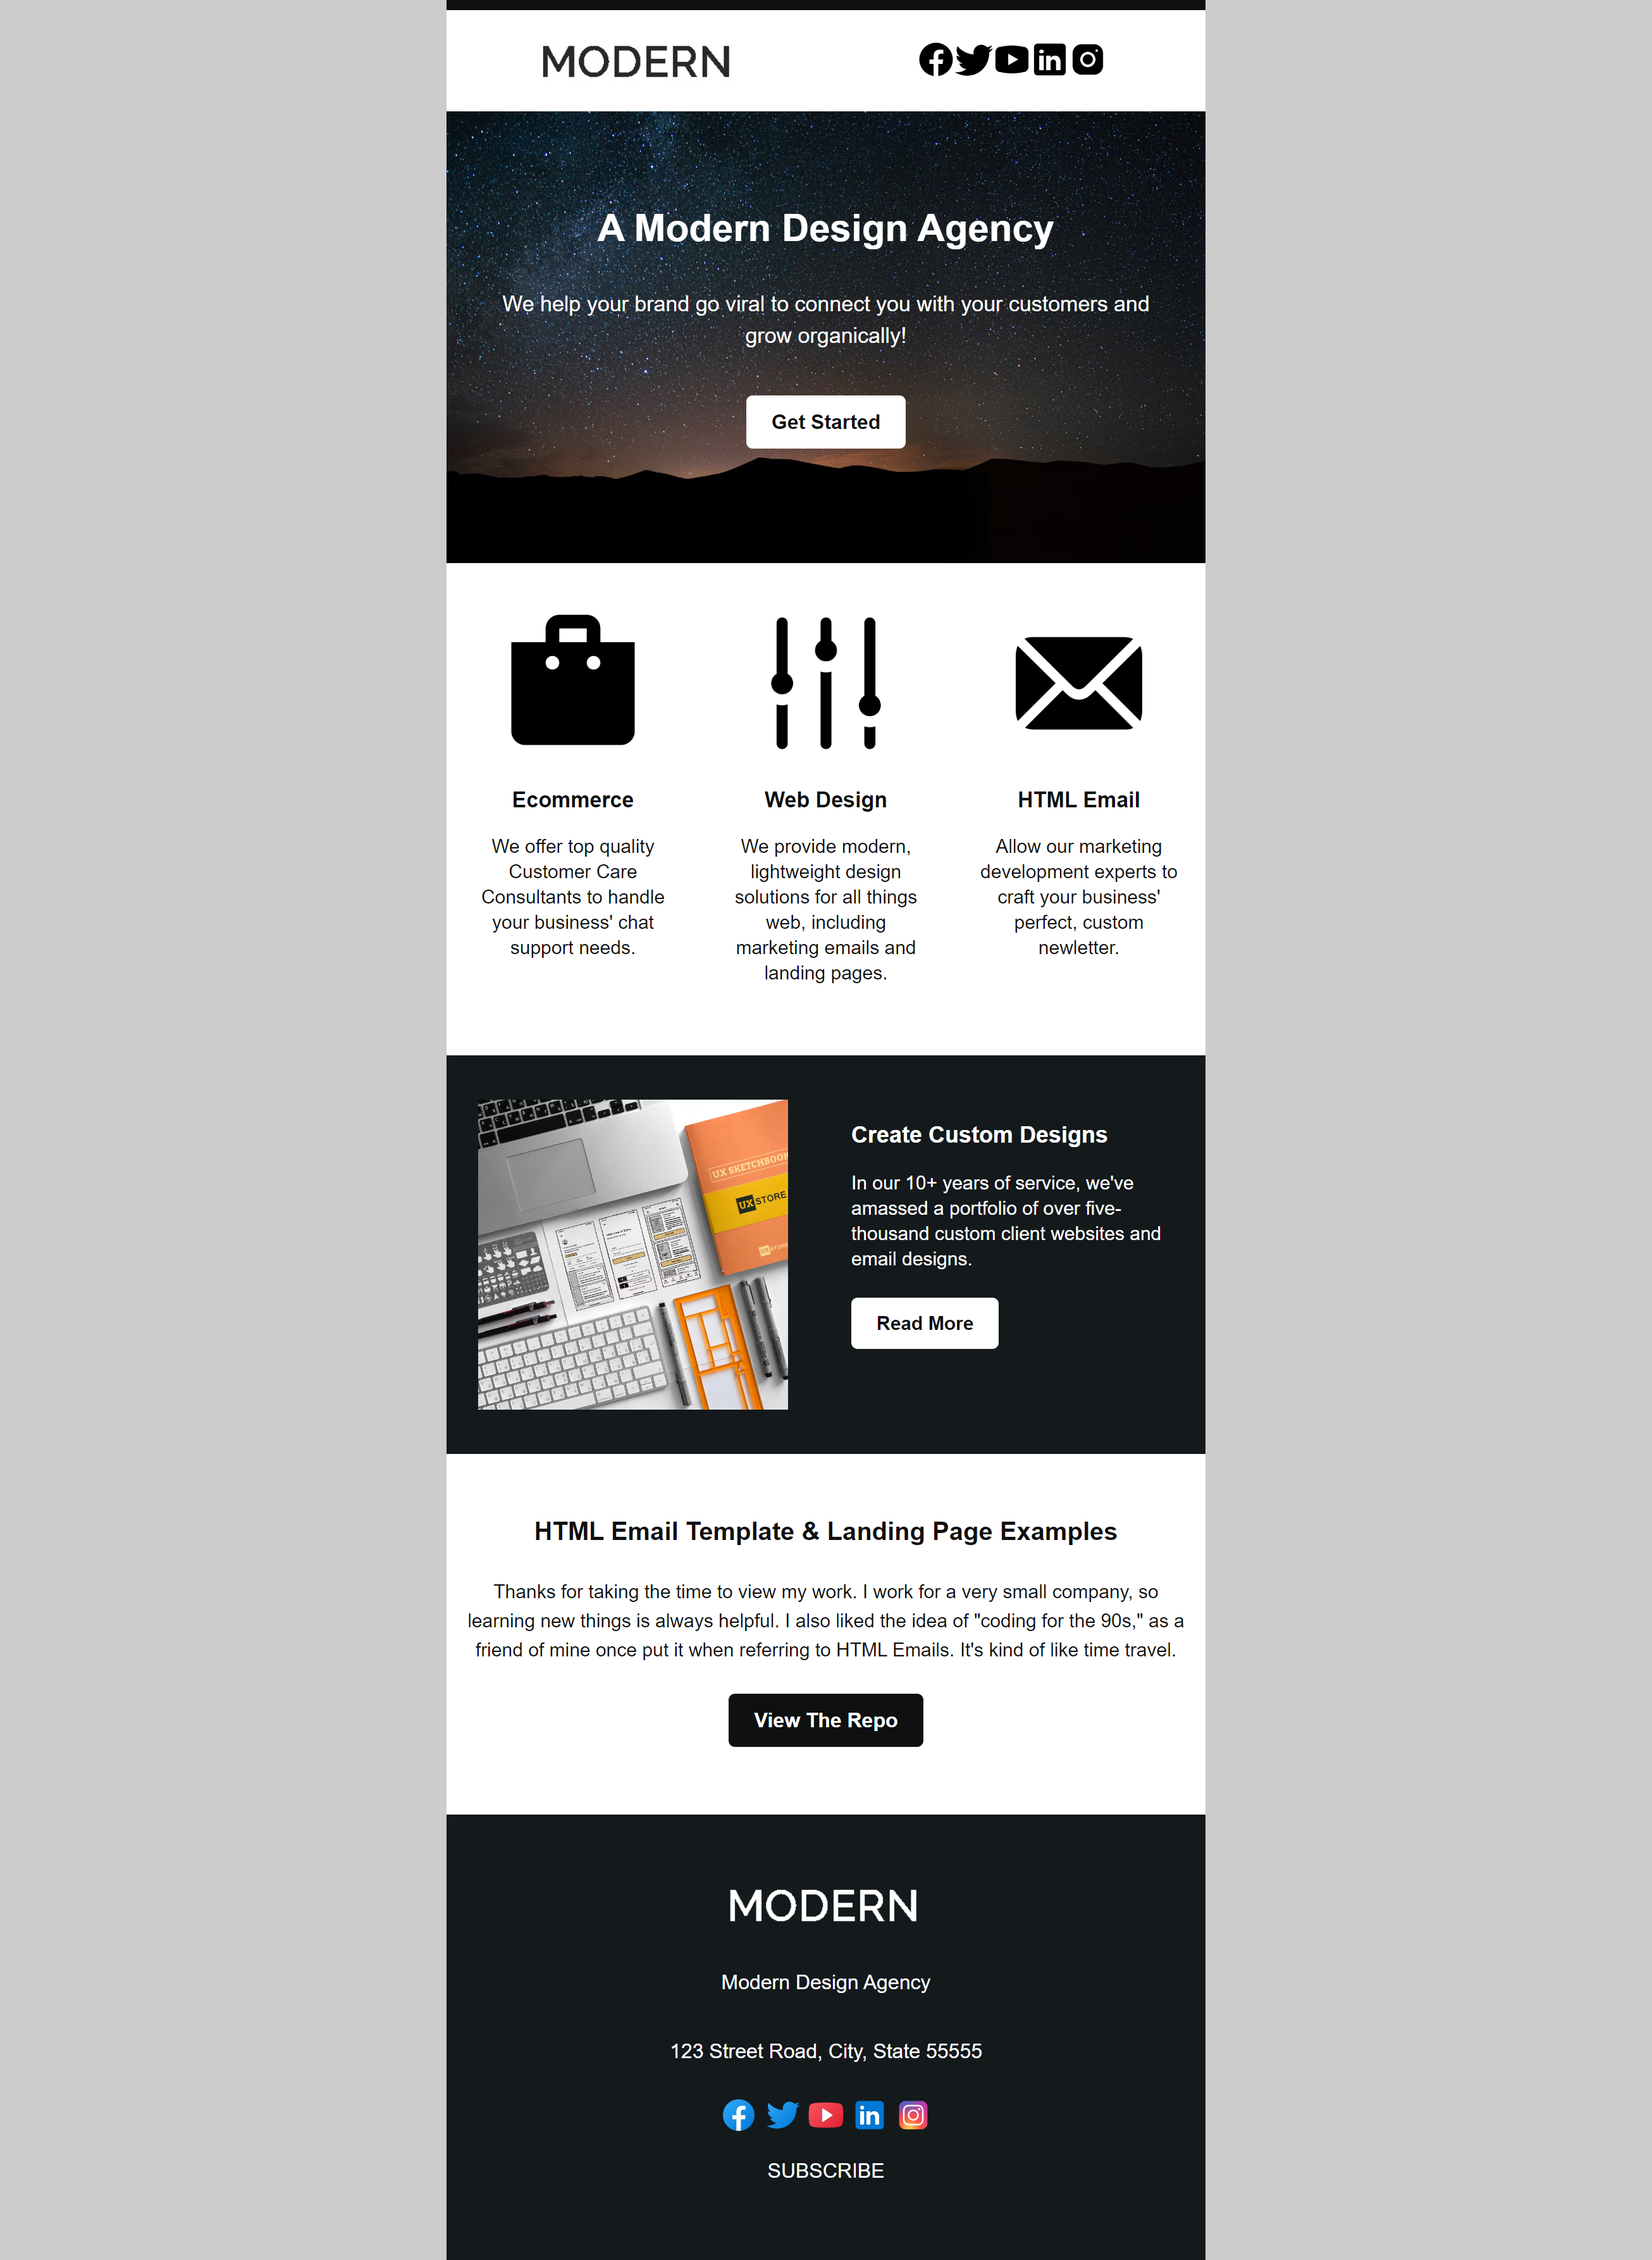
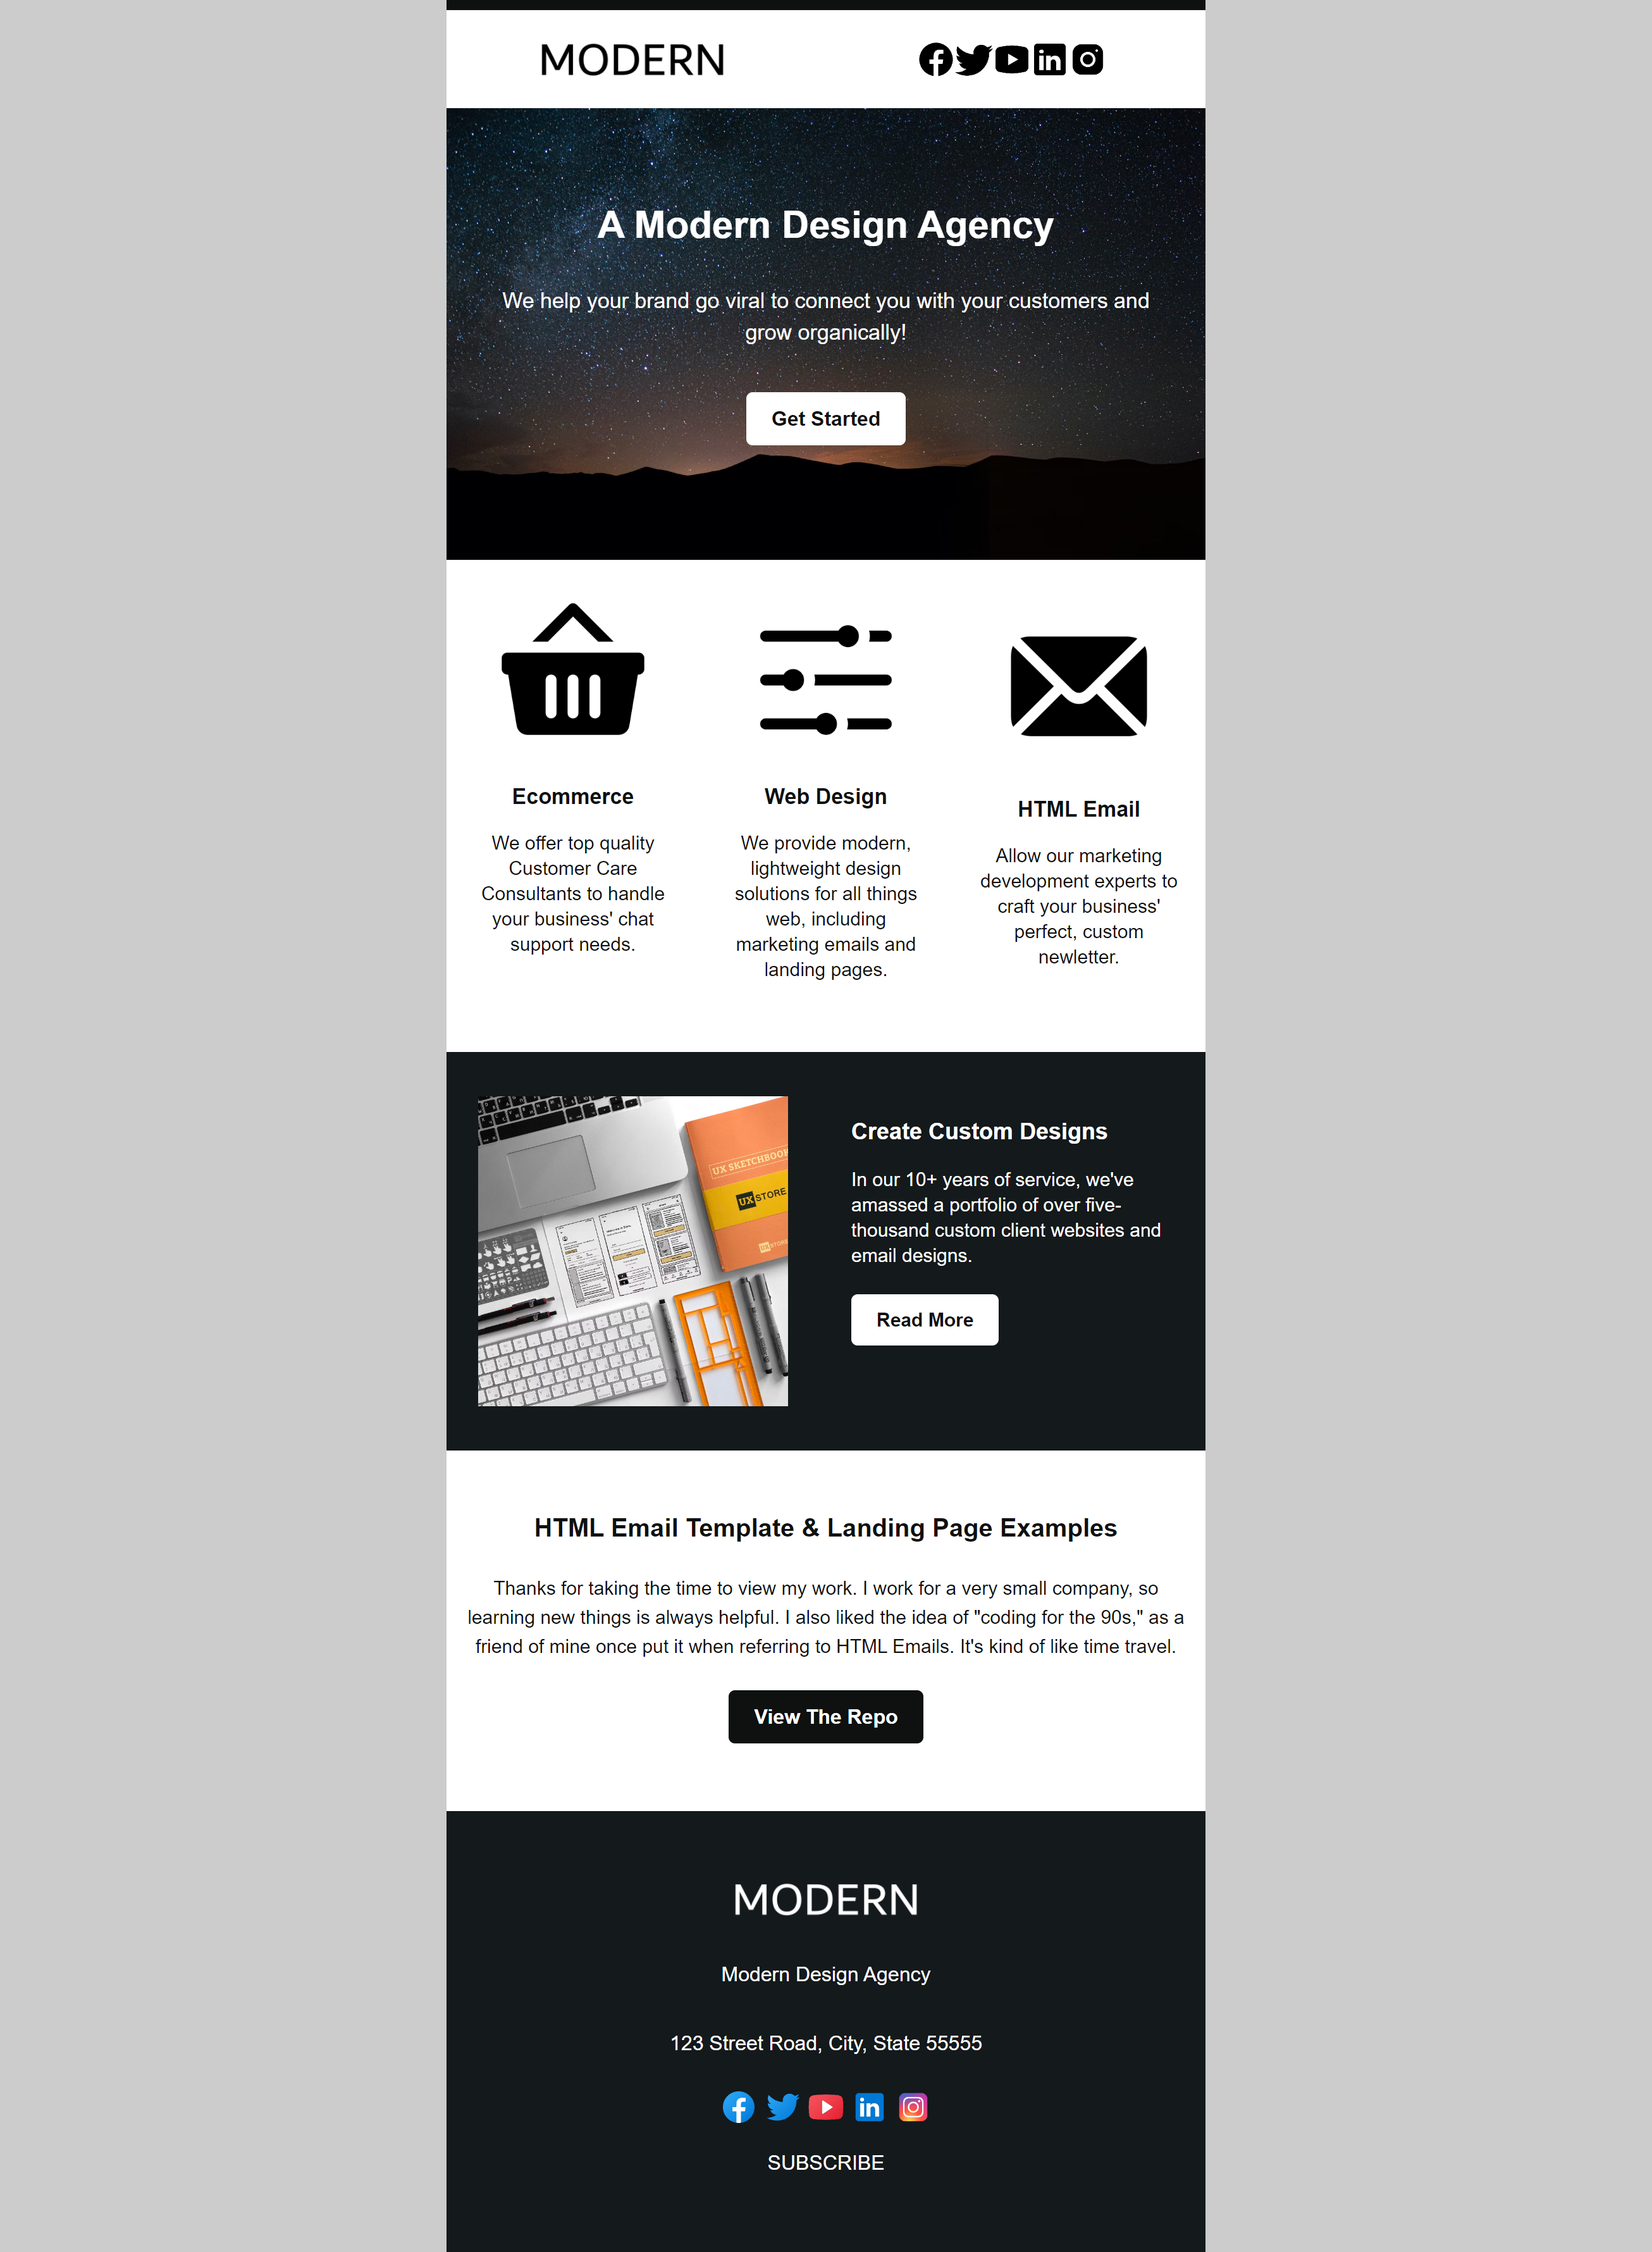
Added new local and url images to images folder and index.html, respectively. Added new solution picture.

diff --git a/index.html b/index.html
@@ -120,7 +120,7 @@
                     <tr>
                       <td style="padding: 0 62px 10px;">
                         <a href="#">
-                          <img src="https://i.ibb.co/LNNQRbS/modern.jpg" alt="Modern Logo" title="Modern Logo" width="180" border="0">
+                          <img src="https://i.ibb.co/FhzQYmd/modern-bl.png" alt="Modern Logo" title="Modern Logo" width="170" border="0">
                         </a>
                       </td>
                     </tr>
@@ -177,7 +177,7 @@
                           <tr>
                             <td>
                               <a href="#">
-                                <img src="https://img.icons8.com/material/344/shopping-bag--v1.png" alt="Shopping bag" title="Ecommerce" width="130" style="max-width: 130px;">
+                                <img src="https://img.icons8.com/ios-glyphs/344/shopping-basket.png" alt="Shopping bag" title="Ecommerce" width="130" style="max-width: 130px;">
                               </a>
                             </td>
                           </tr>
@@ -201,7 +201,7 @@
                           <tr>
                             <td>
                               <a href="#">
-                                <img src="https://img.icons8.com/ios-glyphs/344/vertical-settings-mixer.png" alt="Settings mixer" title="Web Design" width="130" style="max-width: 130px;">
+                                <img src="https://img.icons8.com/ios-glyphs/344/horizontal-settings-mixer--v1.png" alt="Settings mixer" title="Web Design" width="130" style="max-width: 130px;">
                               </a>
                             </td>
                           </tr>
@@ -225,7 +225,7 @@
                           <tr>
                             <td>
                               <a href="#">
-                                <img src="https://img.icons8.com/sf-regular-filled/344/new-post.png" alt="Email" title="HTML Email" width="130" style="max-width: 130px;">
+                                <img src="https://img.icons8.com/sf-regular-filled/344/new-post.png" alt="Email" title="HTML Email" width="140" style="max-width: 140px;">
                               </a>
                             </td>
                           </tr>
@@ -317,7 +317,7 @@
               <tr>
                 <td style="text-align: center; padding: 45px 20px; color: #ffffff;">
                   <a href="#">
-                    <img src="https://i.ibb.co/23YwyQK/modern-white.png" alt="Modern Logo" title="Modern Logo" width="180" border="0">
+                    <img src="https://i.ibb.co/tb5NmM7/modern-wt.png" alt="Modern Logo" title="Modern Logo" width="170" border="0">
                   </a>
                   <p style="padding: 10px;">Modern Design Agency</p>
                   <p style="padding: 10px;">123 Street Road, City, State 55555</p>
